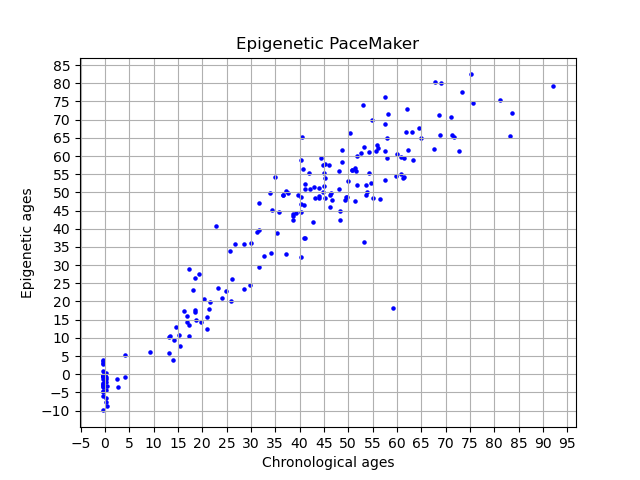
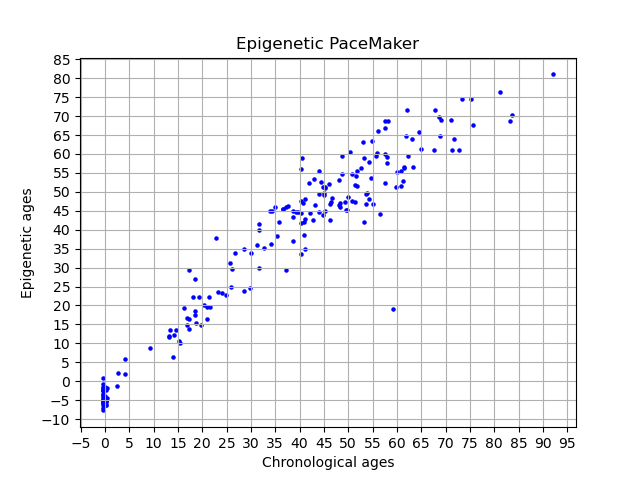
added plots

Changed region(s): [[0.0625, 0.125, 0.875, 0.9062]]

diff --git a/Protocol/data_handler.py b/Protocol/data_handler.py
@@ -7,7 +7,7 @@ from EpigeneticPacemaker.ExampleData.DataSets import get_example_data
 # CONSTANTS
 PRECISION = None
 MIN_COEFFICIENT = 0.90
-NUMBER_OF_SITES = 5
+NUMBER_OF_SITES = 15
 NUMBER_OF_PEOPLE = 500
 
 
